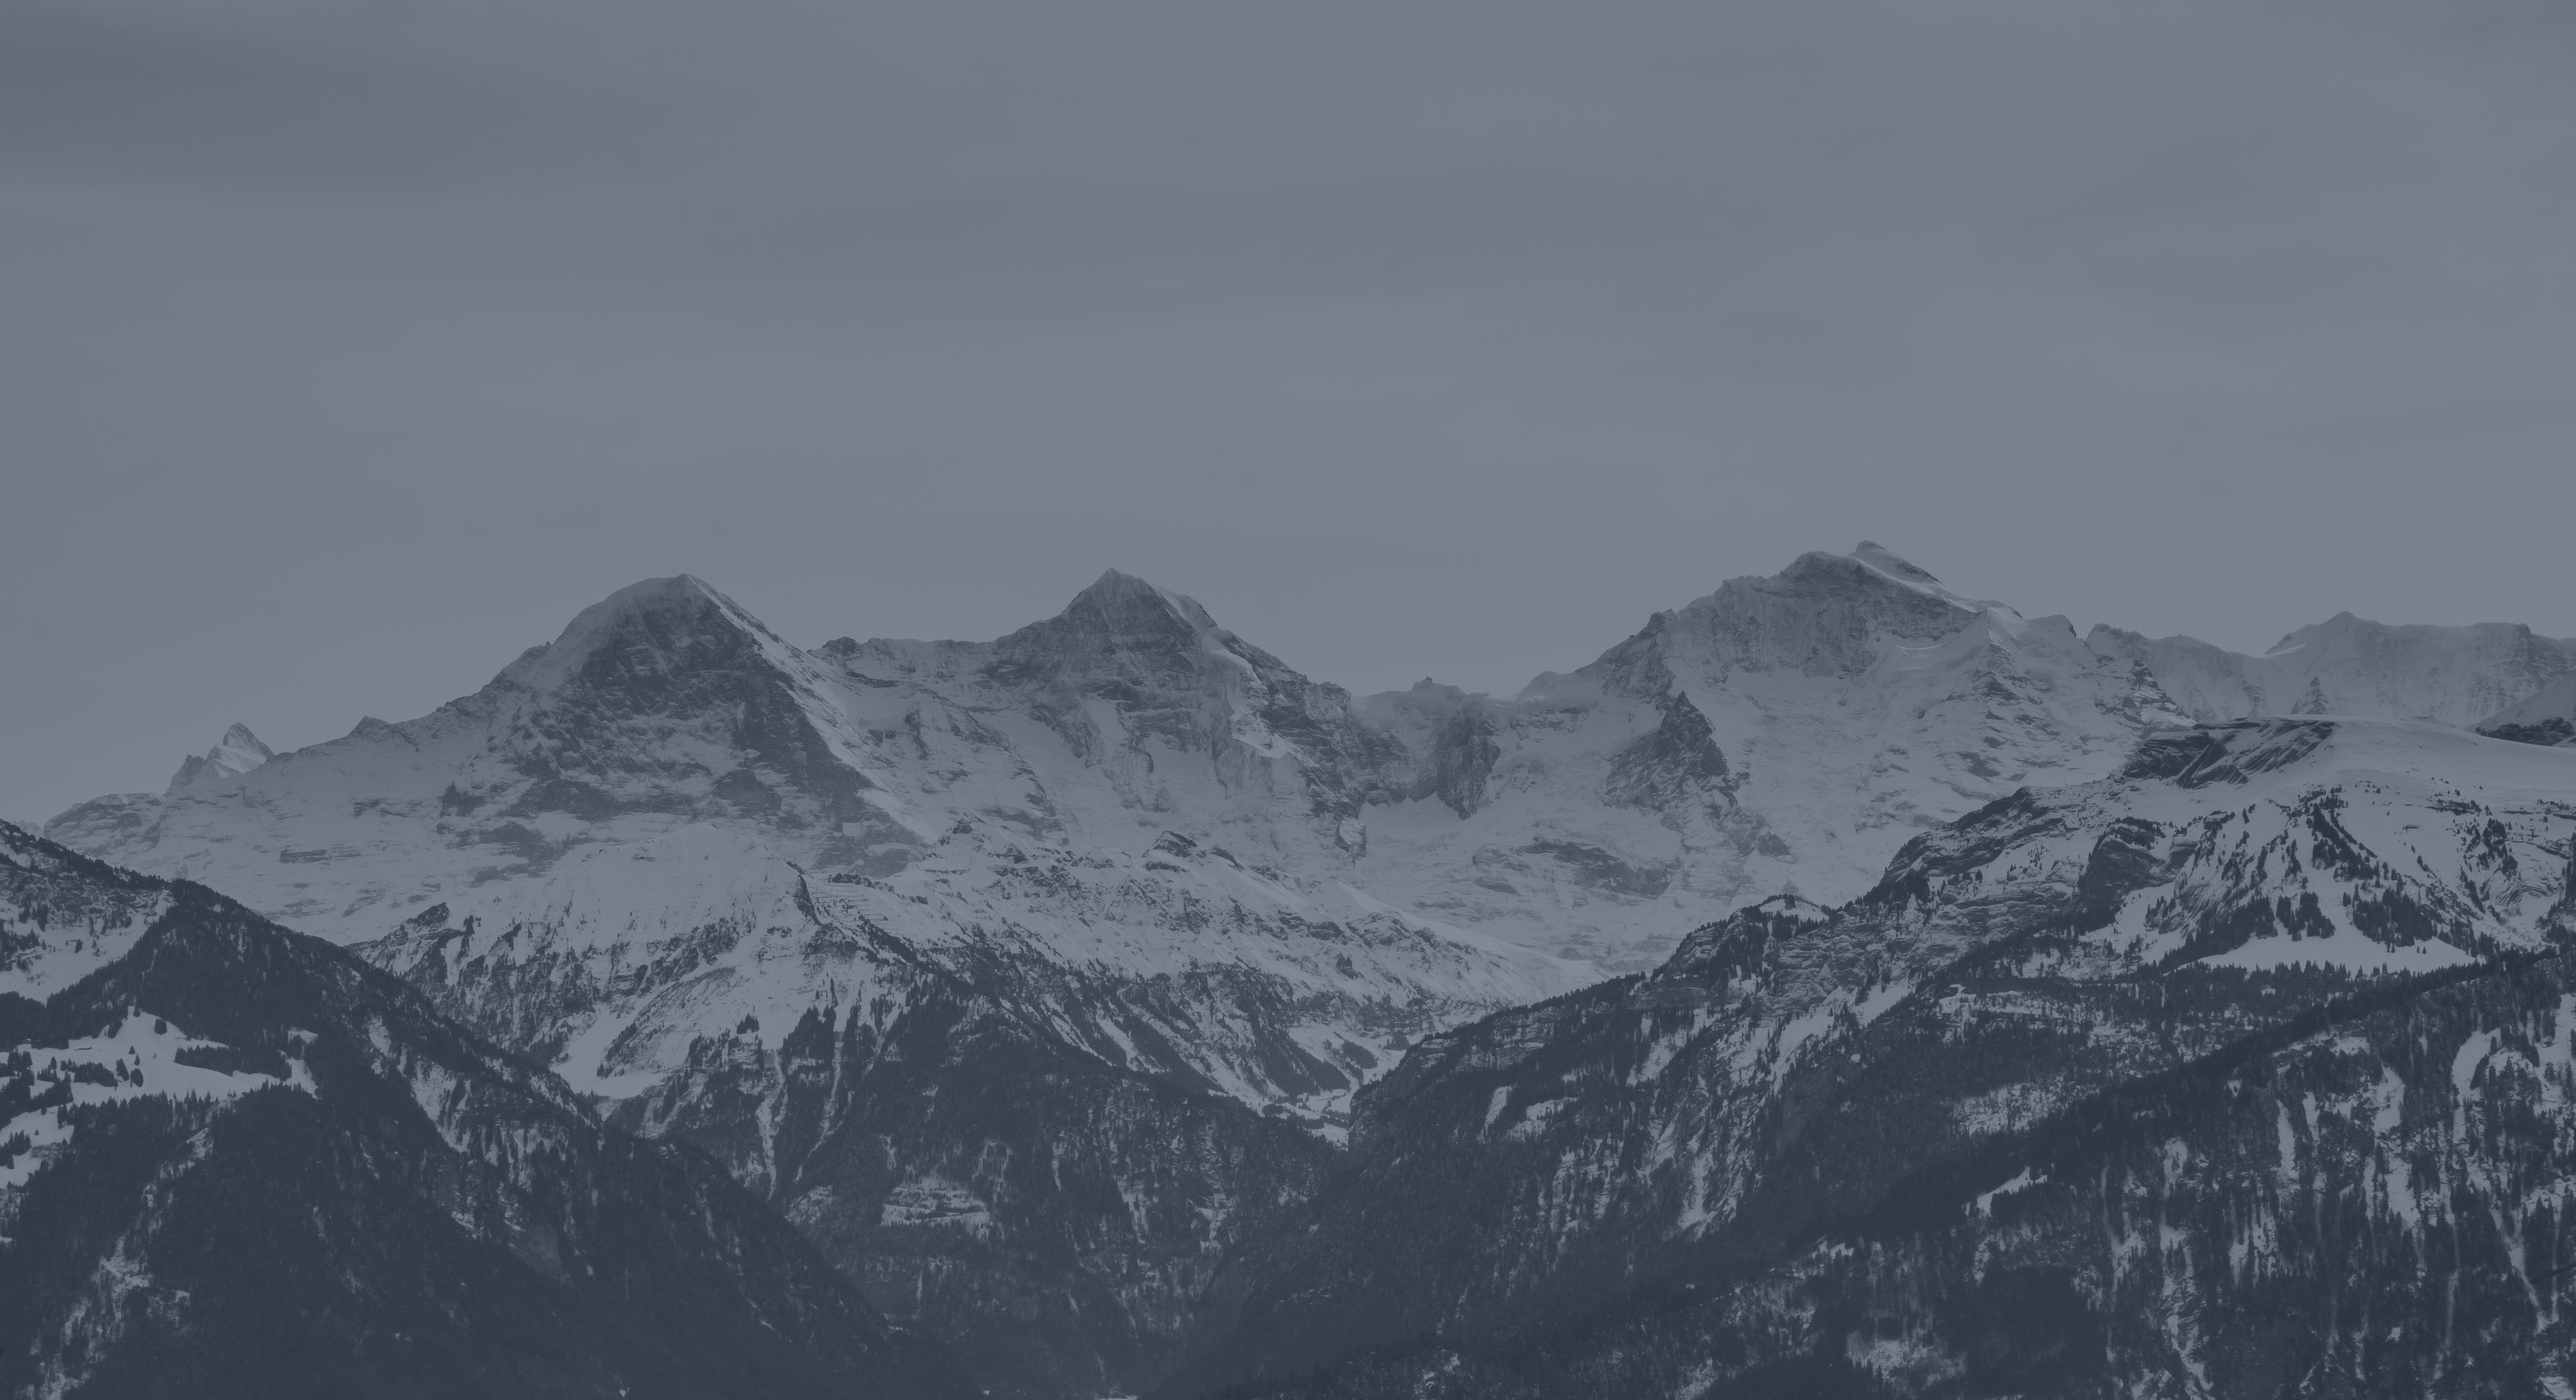
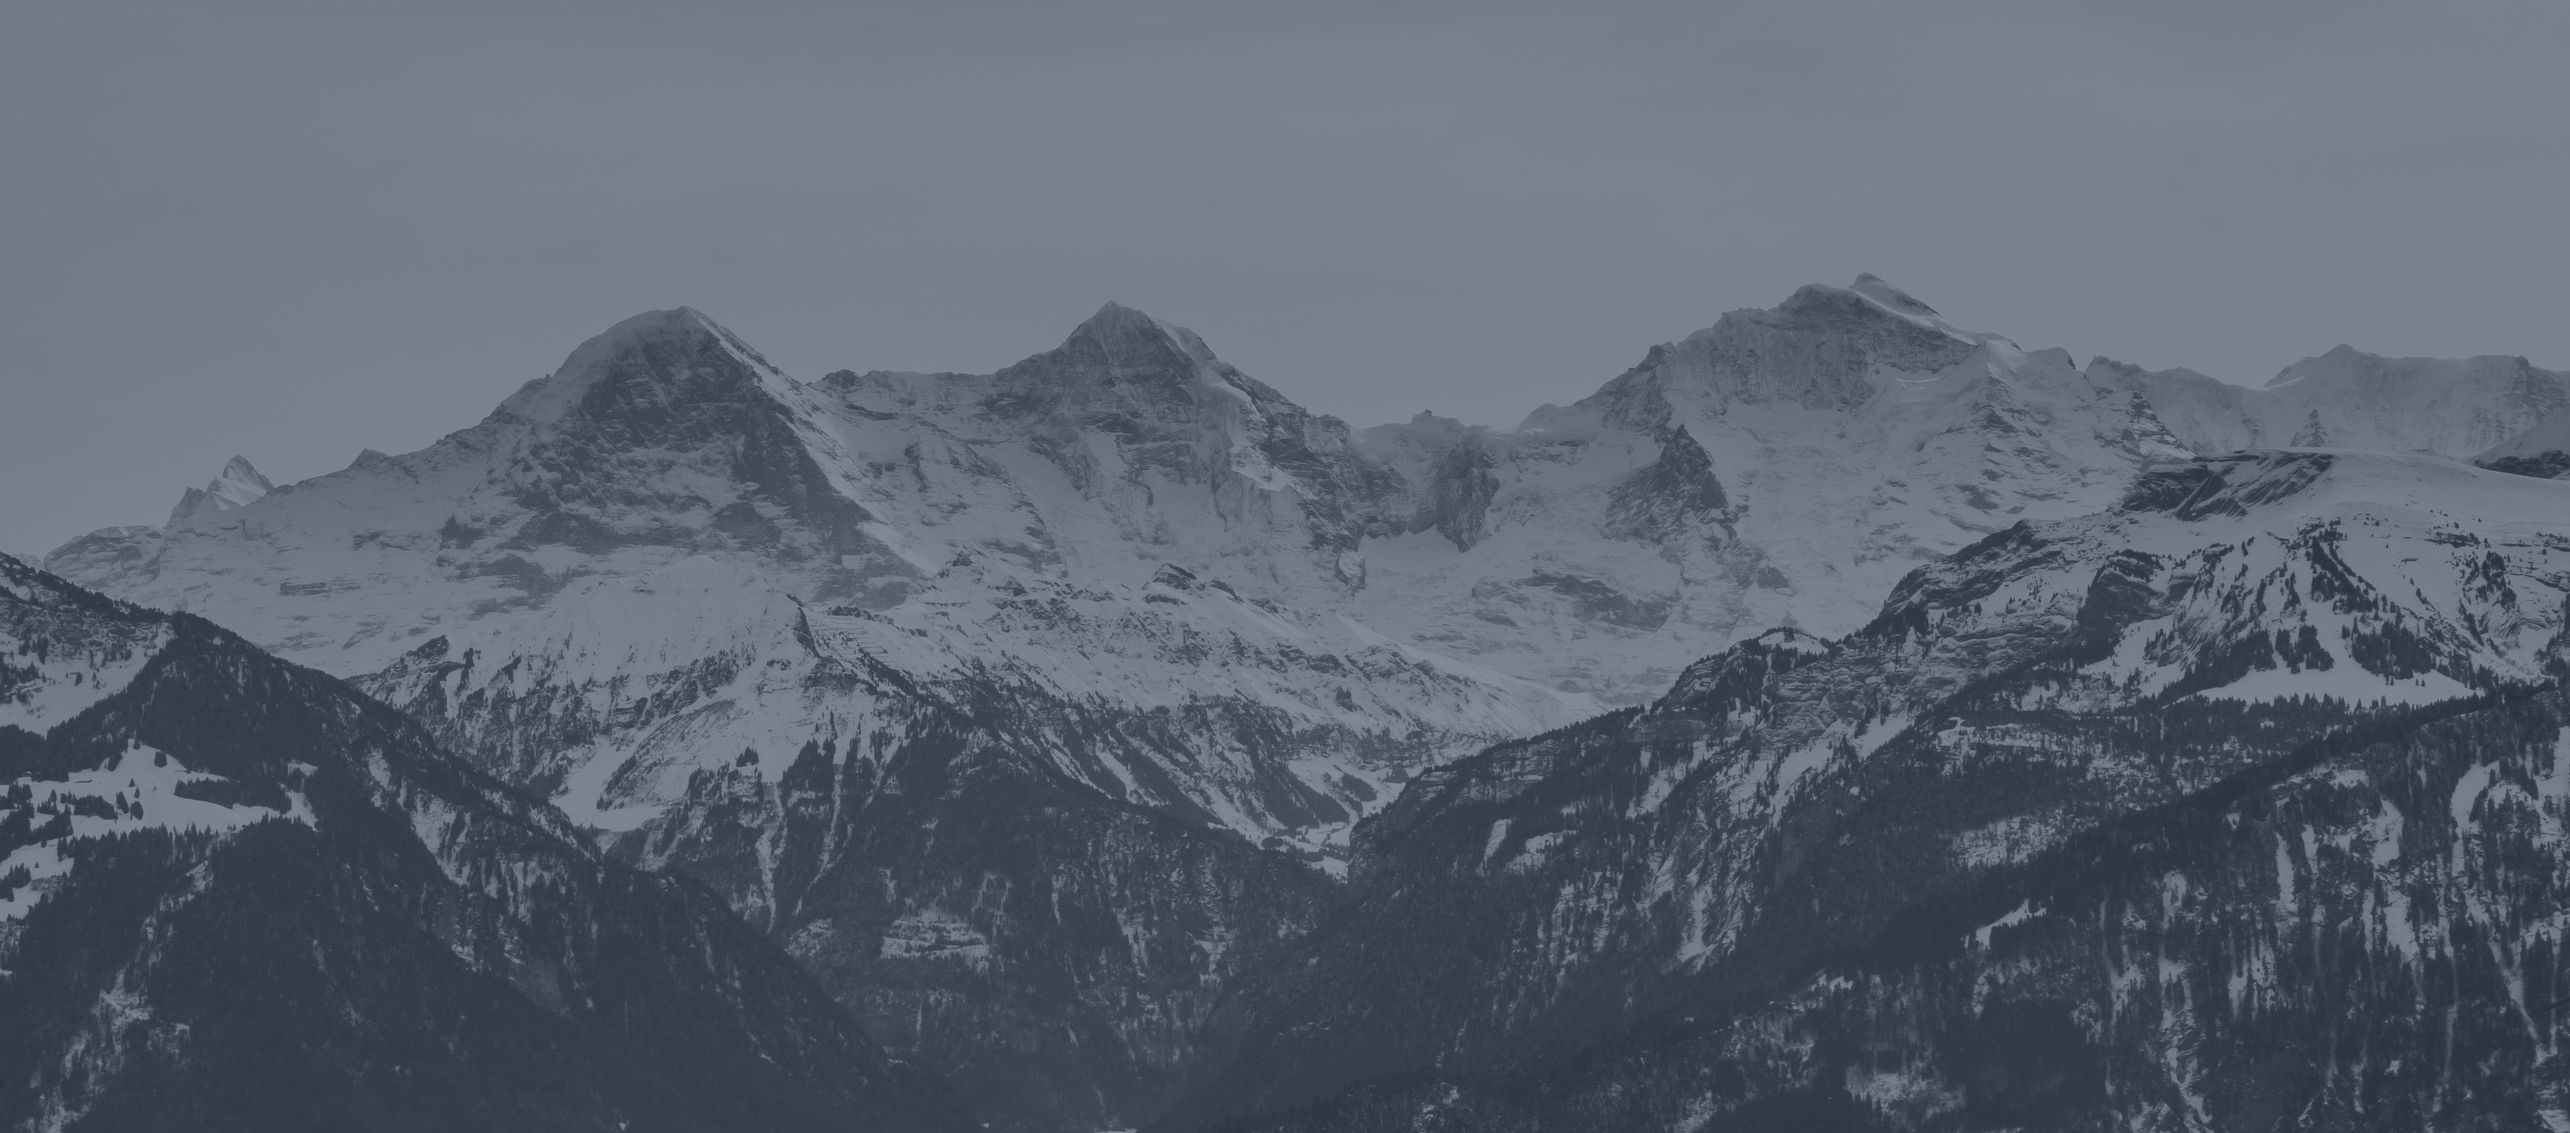
Complete the homepage hero.

diff --git a/style.css b/style.css
@@ -1,4 +1,4 @@
-@import url('https://fonts.googleapis.com/css2?family=Rubik&display=swap');
+@import url('https://fonts.googleapis.com/css2?family=Rubik:wght@300&display=swap');
 
 @font-face {
     font-family: "Mont Heavy Demo";
@@ -35,18 +35,61 @@ body {
     background-image: url("images/nordic.jpg");
     background-position: center;
     background-size: cover;
+    -webkit-clip-path: polygon(0 0, 100% 0, 100% 85%, 0 100%);
+    clip-path: polygon(0 0, 100% 0, 100% 85%, 0 100%);
+    padding-bottom: 2rem;
 }
 
 .header {
     text-transform: lowercase;
 }
 
+.header__title-container {
+    display: flex;
+    align-items: center;
+    justify-content: space-between;
+    padding: 1rem;
+}
+
+.header__icon {
+    height: 2.75rem;
+}
+
 .header__title {
     font-family: var(--mont);
+    font-size: 1.5rem;
     color: var(--light-gray);
+    margin: 0;
+}
+
+.header__link-container {
+    display: none;
 }
 
 .header__link {
     font-family: var(--rubik);
     color: var(--light-gray);
+}
+
+.hero__quote {
+    max-width: calc(500px - 2rem);
+    display: flex;
+    flex-direction: column;
+    font-family: var(--rubik);
+    color: var(--light-gray);
+    padding: 1rem 2rem;
+    margin: 0 auto;
+}
+
+.hero__quote-text {
+    font-style: italic;
+    line-height: 1.75;
+    letter-spacing: 1px;
+    margin: 0;
+}
+
+.hero__quote-cite {
+    align-self: flex-end;
+    font-style: normal;
+    margin: 1rem;
 }

diff --git a/index.html b/index.html
@@ -22,6 +22,10 @@
                     <h2 class="header__link">Blog</h2>
                 </div>
             </div>
+            <div class="hero__quote">
+                <blockquote class="hero__quote-text">"The enemy of art is the absence of limitations."</blockquote>
+                <cite class="hero__quote-cite">&mdash; Orson Welles</cite>
+            </div>
         </div>
     </body>
 </html>
